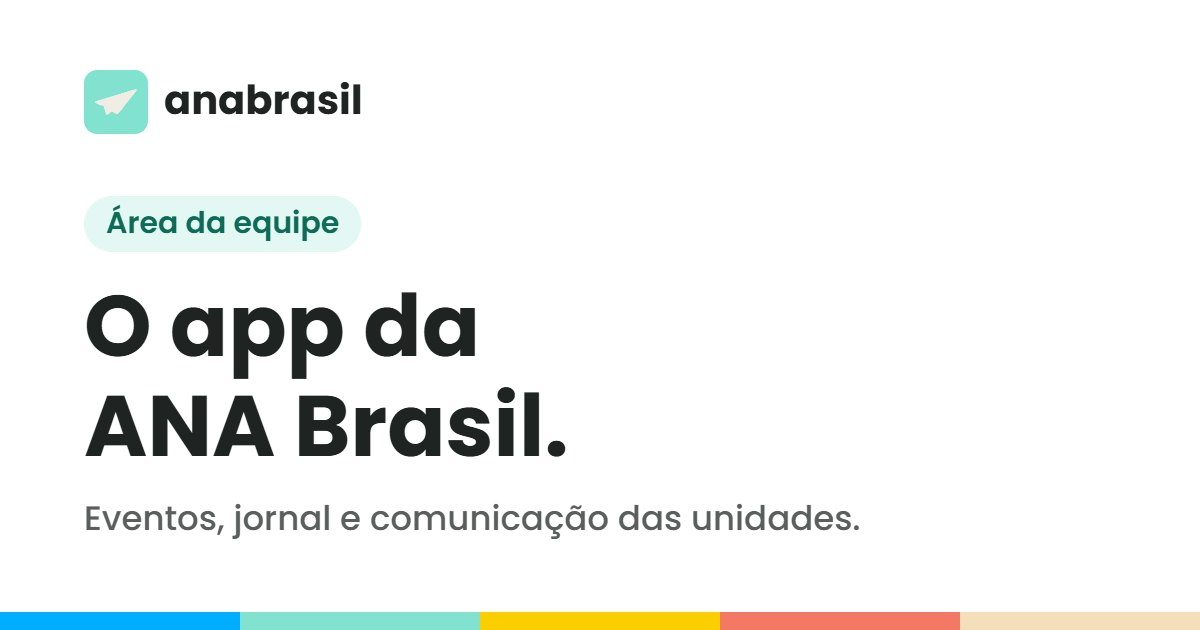
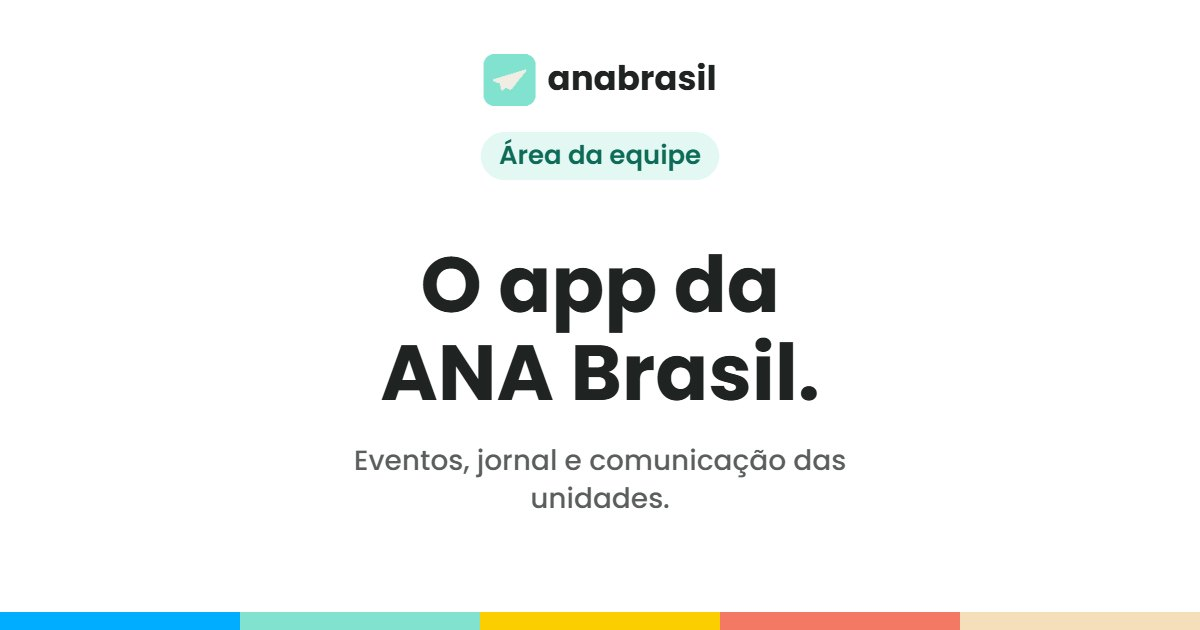
App: cartões de link centrados, para não cortar no WhatsApp do computador
O WhatsApp no computador mostra a imagem do cartão recortada num quadrado
no meio; com o texto alinhado à esquerda, o começo das palavras saía
cortado (print de 25/09/2026). As sete imagens foram redesenhadas com
tudo centrado dentro desse quadrado; no celular a imagem inteira continua
boa. O endereço das imagens ganhou ?v=2 para o WhatsApp não reaproveitar
a arte antiga, que tinha o mesmo nome de arquivo.

diff --git a/src/lib/cartoesDeLink.test.ts b/src/lib/cartoesDeLink.test.ts
@@ -1,6 +1,6 @@
 import { describe, expect, it } from 'vitest';
 import { existsSync, readFileSync } from 'node:fs';
-import { CARTOES_DE_LINK, comCartao } from './cartoesDeLink';
+import { CARTOES_DE_LINK, VERSAO_DA_ARTE, comCartao } from './cartoesDeLink';
 
 // O index.html de verdade do projeto: se alguém mexer nas marcações dele, o
 // teste avisa antes de o build gerar um cartão errado.
@@ -17,8 +17,8 @@ describe('cartão de link das enquetes (25/09/2026)', () => {
     expect(html).toContain('<title>Enquete · ANA Brasil</title>');
     expect(meta(html, 'property', 'og:title')).toBe('Enquete · ANA Brasil');
     expect(meta(html, 'property', 'og:description')).toMatch(/toque para votar/i);
-    expect(meta(html, 'property', 'og:image')).toBe('https://app.anabrasil.org/og-enquete.jpg');
-    expect(meta(html, 'name', 'twitter:image')).toBe('https://app.anabrasil.org/og-enquete.jpg');
+    expect(meta(html, 'property', 'og:image')).toBe(`https://app.anabrasil.org/og-enquete.jpg?v=${VERSAO_DA_ARTE}`);
+    expect(meta(html, 'name', 'twitter:image')).toBe(`https://app.anabrasil.org/og-enquete.jpg?v=${VERSAO_DA_ARTE}`);
     expect(meta(html, 'name', 'description')).toMatch(/toque para votar/i);
     expect(html).not.toMatch(/property="og:url"/);
     expect(html).not.toMatch(/Programação de Eventos/);
@@ -27,7 +27,7 @@ describe('cartão de link das enquetes (25/09/2026)', () => {
   it('o de acompanhamento tem título e imagem próprios', () => {
     const html = comCartao(index, resultado);
     expect(meta(html, 'property', 'og:title')).toBe('Resultado da enquete · ANA Brasil');
-    expect(meta(html, 'property', 'og:image')).toBe('https://app.anabrasil.org/og-enquete-resultado.jpg');
+    expect(meta(html, 'property', 'og:image')).toBe(`https://app.anabrasil.org/og-enquete-resultado.jpg?v=${VERSAO_DA_ARTE}`);
   });
 
   it('o resto do HTML (scripts, ícones, fonte) fica igual', () => {
@@ -70,5 +70,11 @@ describe('um cartão para cada página (25/09/2026)', () => {
       const caminho = rota.replace(/^\//, '').replace(':slug', 'exemplo');
       expect(regras.some(r => r.test(caminho)), rota).toBe(true);
     }
+  });
+});
+
+describe('versão da arte (25/09/2026)', () => {
+  it('o index.html usa a mesma versão da arte que as cópias', () => {
+    expect(index).toContain(`og-programacao.jpg?v=${VERSAO_DA_ARTE}`);
   });
 });

diff --git a/src/lib/cartoesDeLink.ts b/src/lib/cartoesDeLink.ts
@@ -35,6 +35,16 @@ export interface CartaoDeLink {
 
 export const ORIGEM = 'https://app.anabrasil.org';
 
+/**
+ * Versão da arte, no fim do endereço da imagem. Ao redesenhar as imagens com
+ * o mesmo nome de arquivo, suba este número: o WhatsApp guarda a imagem pelo
+ * endereço, e sem a troca podia continuar mostrando a antiga.
+ * v2 (25/09/2026): tudo centrado no quadrado do meio, que é o que o WhatsApp
+ * do computador mostra; a v1, alinhada à esquerda, saía cortada.
+ * O index.html usa o mesmo número no og:image da programação.
+ */
+export const VERSAO_DA_ARTE = '2';
+
 export const CARTOES_DE_LINK: CartaoDeLink[] = [
   {
     arquivo: 'enquete-resultado.html',
@@ -106,11 +116,11 @@ export function comCartao(indexHtml: string, c: CartaoDeLink, origem = ORIGEM): 
   html = trocarMeta(html, 'name', 'description', c.descricao);
   html = trocarMeta(html, 'property', 'og:title', c.titulo);
   html = trocarMeta(html, 'property', 'og:description', c.descricao);
-  html = trocarMeta(html, 'property', 'og:image', origem + c.imagem);
+  html = trocarMeta(html, 'property', 'og:image', `${origem}${c.imagem}?v=${VERSAO_DA_ARTE}`);
   html = trocarMeta(html, 'property', 'og:image:alt', c.imagemAlt);
   html = trocarMeta(html, 'name', 'twitter:title', c.titulo);
   html = trocarMeta(html, 'name', 'twitter:description', c.descricao);
-  html = trocarMeta(html, 'name', 'twitter:image', origem + c.imagem);
+  html = trocarMeta(html, 'name', 'twitter:image', `${origem}${c.imagem}?v=${VERSAO_DA_ARTE}`);
   // Sem og:url: o da vitrine apontava tudo para /eventos, e o WhatsApp
   // agrupava os cartões por ele. Sem a marcação, vale o próprio link.
   html = html.replace(/\s*<meta\s+property="og:url"\s+content="[^"]*"\s*\/?>/, '');

diff --git a/index.html b/index.html
@@ -42,7 +42,7 @@
     <meta property="og:locale" content="pt_BR" />
     <meta property="og:title" content="Programação de Eventos · ANA Brasil" />
     <meta property="og:description" content="Confira os próximos eventos confirmados da ANA Brasil em todas as unidades: DIC, Nilópolis e Santana." />
-    <meta property="og:image" content="https://app.anabrasil.org/og-programacao.jpg" />
+    <meta property="og:image" content="https://app.anabrasil.org/og-programacao.jpg?v=2" />
     <meta property="og:image:width" content="1200" />
     <meta property="og:image:height" content="630" />
     <meta property="og:image:alt" content="Programação de eventos da ANA Brasil nas unidades DIC, Nilópolis e Santana" />
@@ -50,7 +50,7 @@
     <meta name="twitter:card" content="summary_large_image" />
     <meta name="twitter:title" content="Programação de Eventos · ANA Brasil" />
     <meta name="twitter:description" content="Confira os próximos eventos confirmados da ANA Brasil em todas as unidades: DIC, Nilópolis e Santana." />
-    <meta name="twitter:image" content="https://app.anabrasil.org/og-programacao.jpg" />
+    <meta name="twitter:image" content="https://app.anabrasil.org/og-programacao.jpg?v=2" />
   </head>
 
   <body>

diff --git a/src/test/indexHtml.test.ts b/src/test/indexHtml.test.ts
@@ -23,7 +23,7 @@ describe('index.html', () => {
 
   it('o cartão do link aponta para a imagem da ANA e descreve a programação', () => {
     // Desde 25/09/2026: a arte na identidade do app, não a foto do desfile, e sem og:url fixo.
-    expect(html).toMatch(/property="og:image" content="https:\/\/app\.anabrasil\.org\/og-programacao\.jpg"/);
+    expect(html).toMatch(/property="og:image" content="https:\/\/app\.anabrasil\.org\/og-programacao\.jpg\?v=\d+"/);
     expect(html).not.toMatch(/og-eventos\.jpg/);
     expect(html).not.toMatch(/property="og:url"/);
     expect(html).toMatch(/property="og:title" content="Programação de Eventos · ANA Brasil"/);
